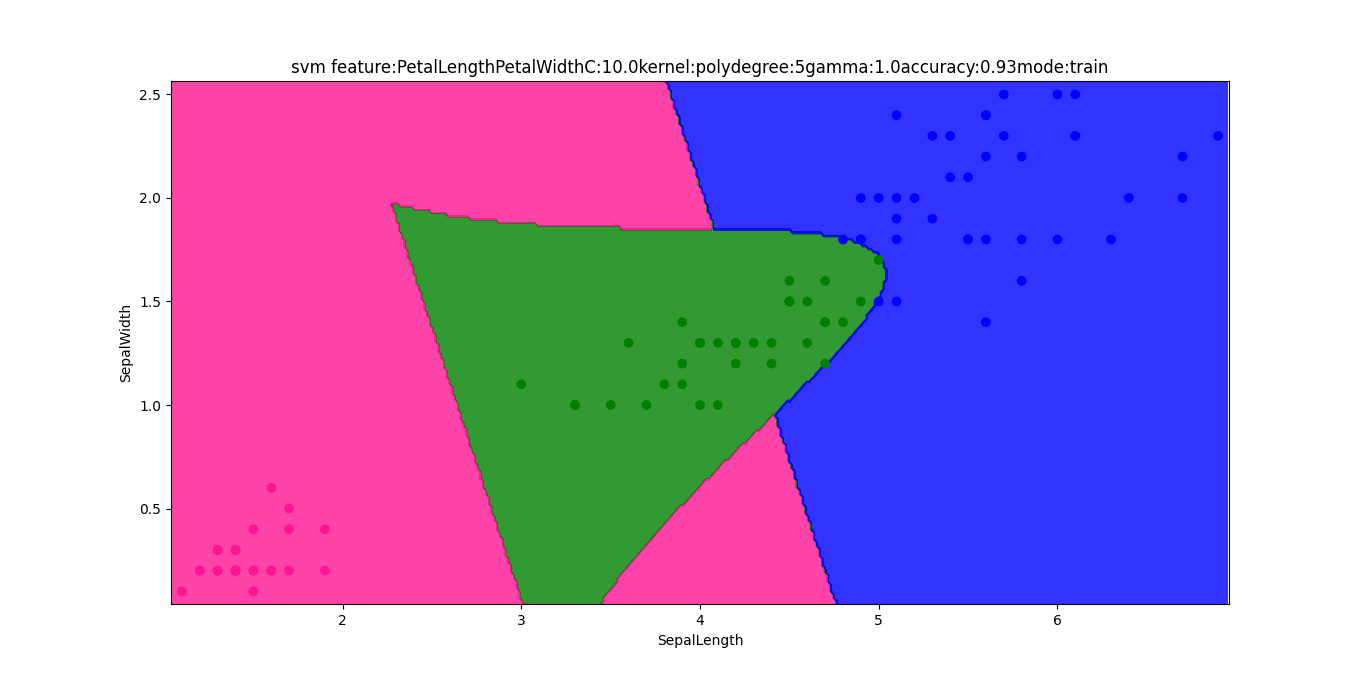
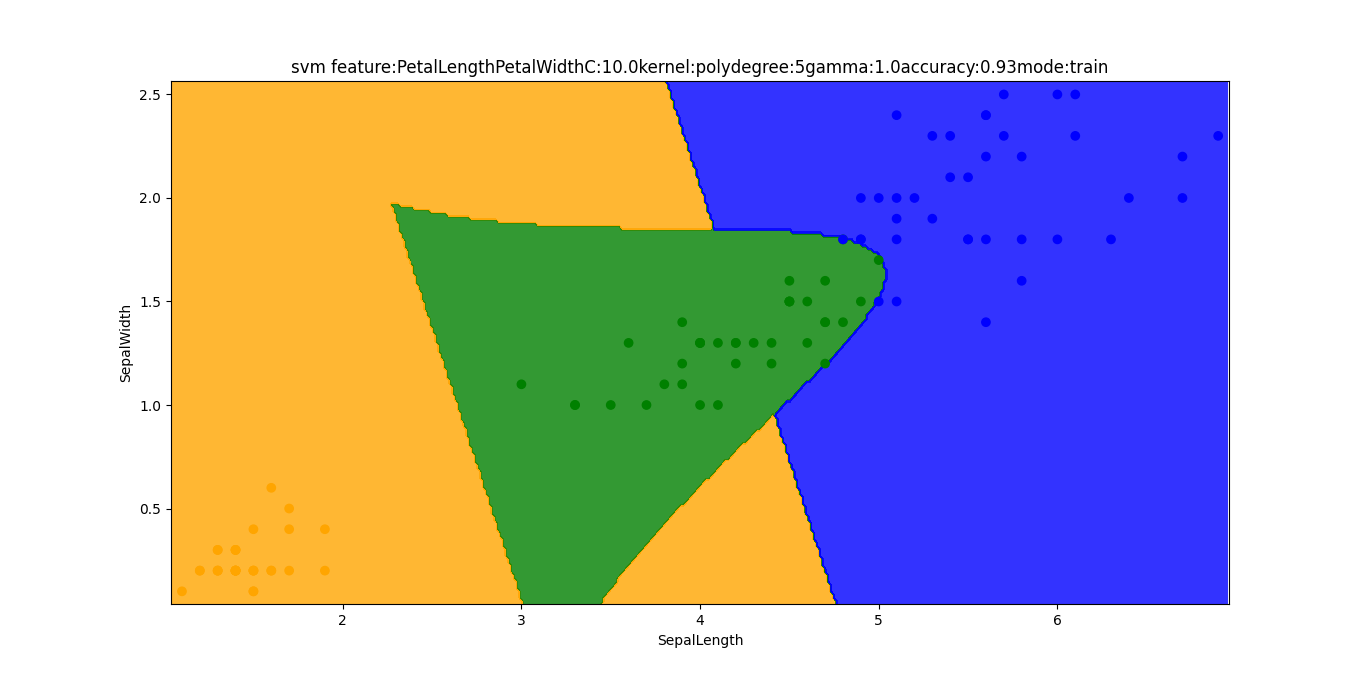
change cmap

Changed region(s): [[0.123, 0.1237, 0.5227, 0.8969], [0.4305, 0.6186, 0.6149, 0.8969]]

diff --git a/utils/plot.py b/utils/plot.py
@@ -33,7 +33,7 @@ def plot_boundary(model, data, param):
     preds = model.predict(x_y)
     preds = preds.reshape(x_torow.shape)
 
-    cmap = colors.ListedColormap(['deeppink', 'green', 'blue', ])
+    cmap = colors.ListedColormap(['orange', 'green', 'blue', ])
 
     plt.subplot(1, 1, 1)
     plt.contourf(x_torow, y_tocol, preds, cmap=cmap, alpha=0.8)
